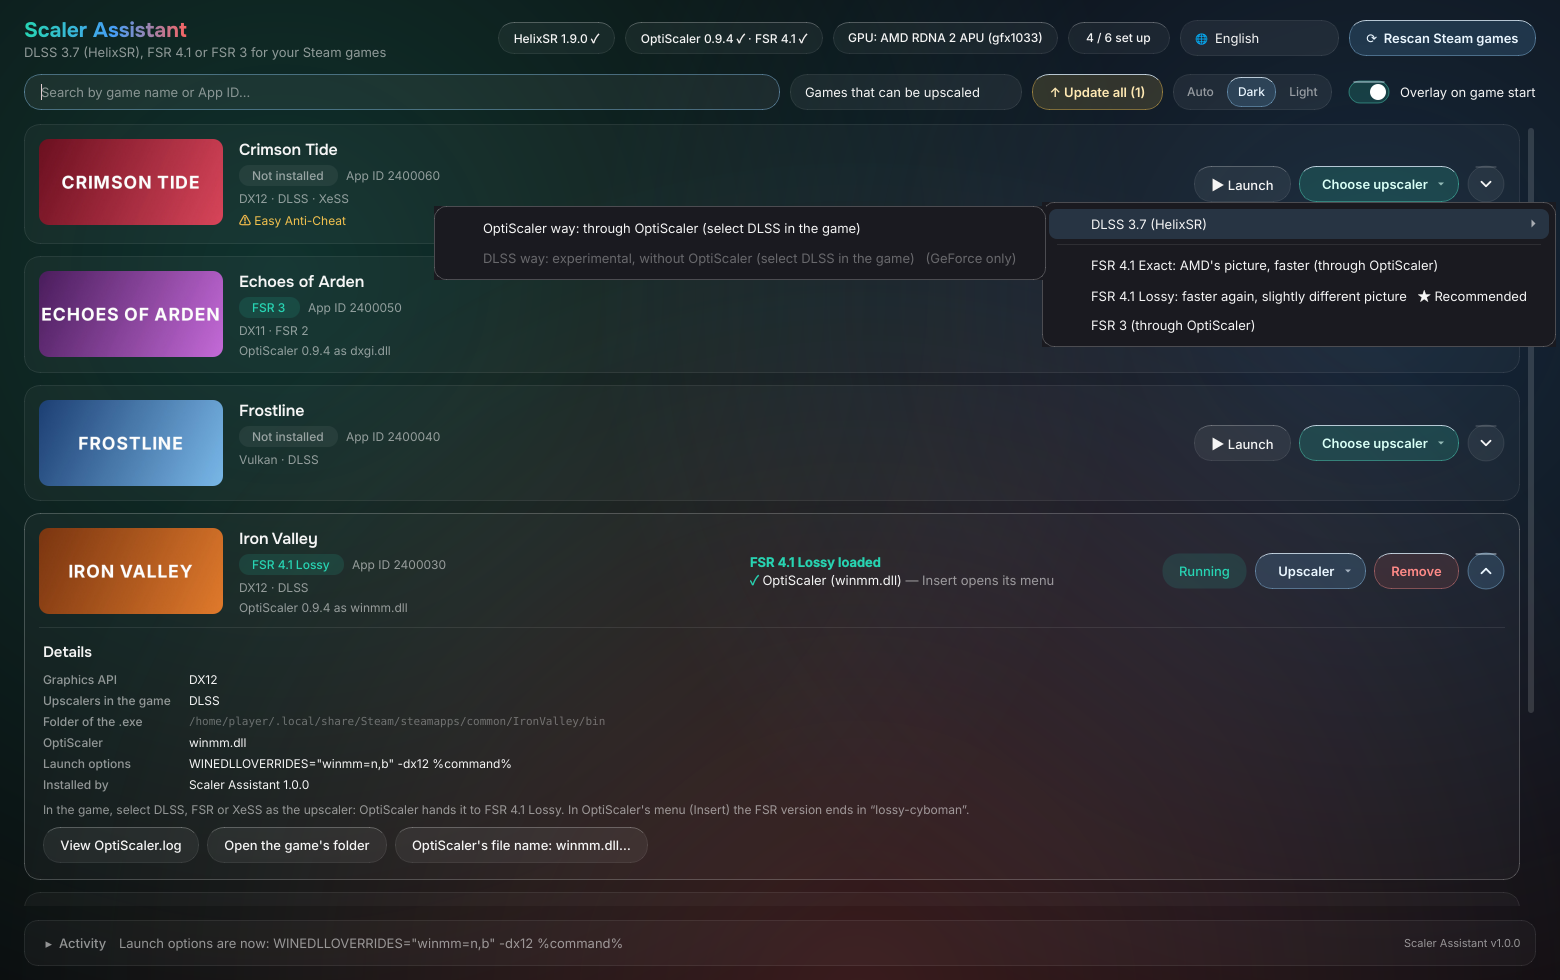
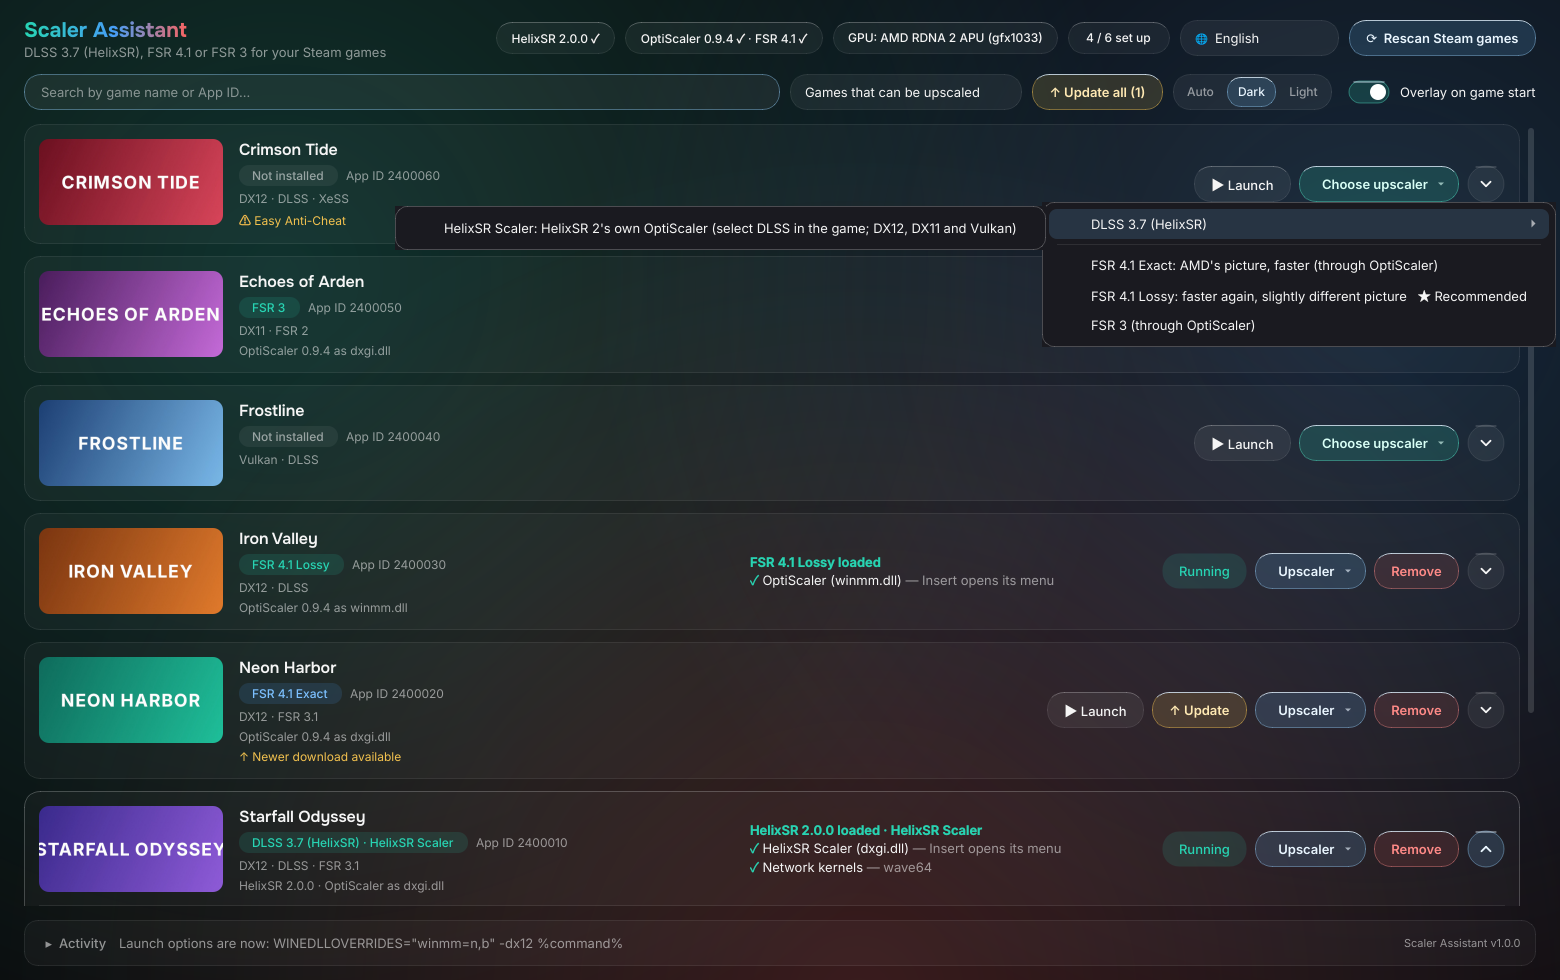
Regenerate screenshots with HelixSR 2.0 on a Steam Deck

diff --git a/README.md b/README.md
@@ -16,11 +16,11 @@ A desktop tool (PyQt6) that lets you choose the upscaler for each Steam game —
 
 ### Screenshots
 
-![Main window: games with FSR 4.1 Exact, FSR 4.1 Lossy (OptiScaler as winmm.dll) and FSR 3, one running](screenshot/01-game-list.png)
+![Main window on a Steam Deck: HelixSR 2.0 through HelixSR Scaler and FSR 4.1 Lossy running, FSR 4.1 Exact with a newer download](screenshot/01-game-list.png)
 
 | | |
 |---|---|
-| ![Choose upscaler](screenshot/02-choose-upscaler.png)<br>The upscaler menu on a Steam Deck: the DLSS way greyed out (GeForce only), FSR 4.1 Lossy recommended | ![Downloads](screenshot/03-downloads.png)<br>OptiScaler and FSR 4.1 downloads and the FSR 4.1 build for your GPU |
+| ![Choose upscaler](screenshot/02-choose-upscaler.png)<br>The upscaler menu on a Steam Deck with HelixSR 2.0: HelixSR Scaler, and FSR 4.1 Lossy recommended | ![Downloads](screenshot/03-downloads.png)<br>OptiScaler and FSR 4.1 downloads and the FSR 4.1 build for your GPU |
 | ![OptiScaler file name](screenshot/04-optiscaler-name.png)<br>OptiScaler's file name, chosen automatically or by hand | ![HelixSR](screenshot/05-helixsr.png)<br>The HelixSR folder for DLSS 3.7 |
 | ![Light theme](screenshot/06-light-theme.png)<br>The light theme (Auto follows the desktop) | |
 
@@ -116,11 +116,11 @@ Scaler Assistant is an independent, unofficial tool, not affiliated with or endo
 
 ### 截圖
 
-![主視窗：使用 FSR 4.1 Exact、FSR 4.1 Lossy（OptiScaler 名稱 winmm.dll）與 FSR 3 的遊戲，其中一款執行中](screenshot/01-game-list.png)
+![Steam Deck 上的主視窗：透過 HelixSR Scaler 執行的 HelixSR 2.0 與 FSR 4.1 Lossy 執行中，FSR 4.1 Exact 有較新的下載檔](screenshot/01-game-list.png)
 
 | | |
 |---|---|
-| ![選擇升頻](screenshot/02-choose-upscaler.png)<br>Steam Deck 上的升頻選單：DLSS 方式反灰（僅限 GeForce）、推薦 FSR 4.1 Lossy | ![下載檔](screenshot/03-downloads.png)<br>OptiScaler 與 FSR 4.1 下載檔，以及適合你顯示卡的 FSR 4.1 版本 |
+| ![選擇升頻](screenshot/02-choose-upscaler.png)<br>Steam Deck 上搭配 HelixSR 2.0 的升頻選單：HelixSR Scaler，並推薦 FSR 4.1 Lossy | ![下載檔](screenshot/03-downloads.png)<br>OptiScaler 與 FSR 4.1 下載檔，以及適合你顯示卡的 FSR 4.1 版本 |
 | ![OptiScaler 檔名](screenshot/04-optiscaler-name.png)<br>OptiScaler 的檔名可自動或手動選擇 | ![HelixSR](screenshot/05-helixsr.png)<br>DLSS 3.7 使用的 HelixSR 資料夾 |
 | ![淺色主題](screenshot/06-light-theme.png)<br>淺色主題（「自動」跟隨桌面設定） | |
 
